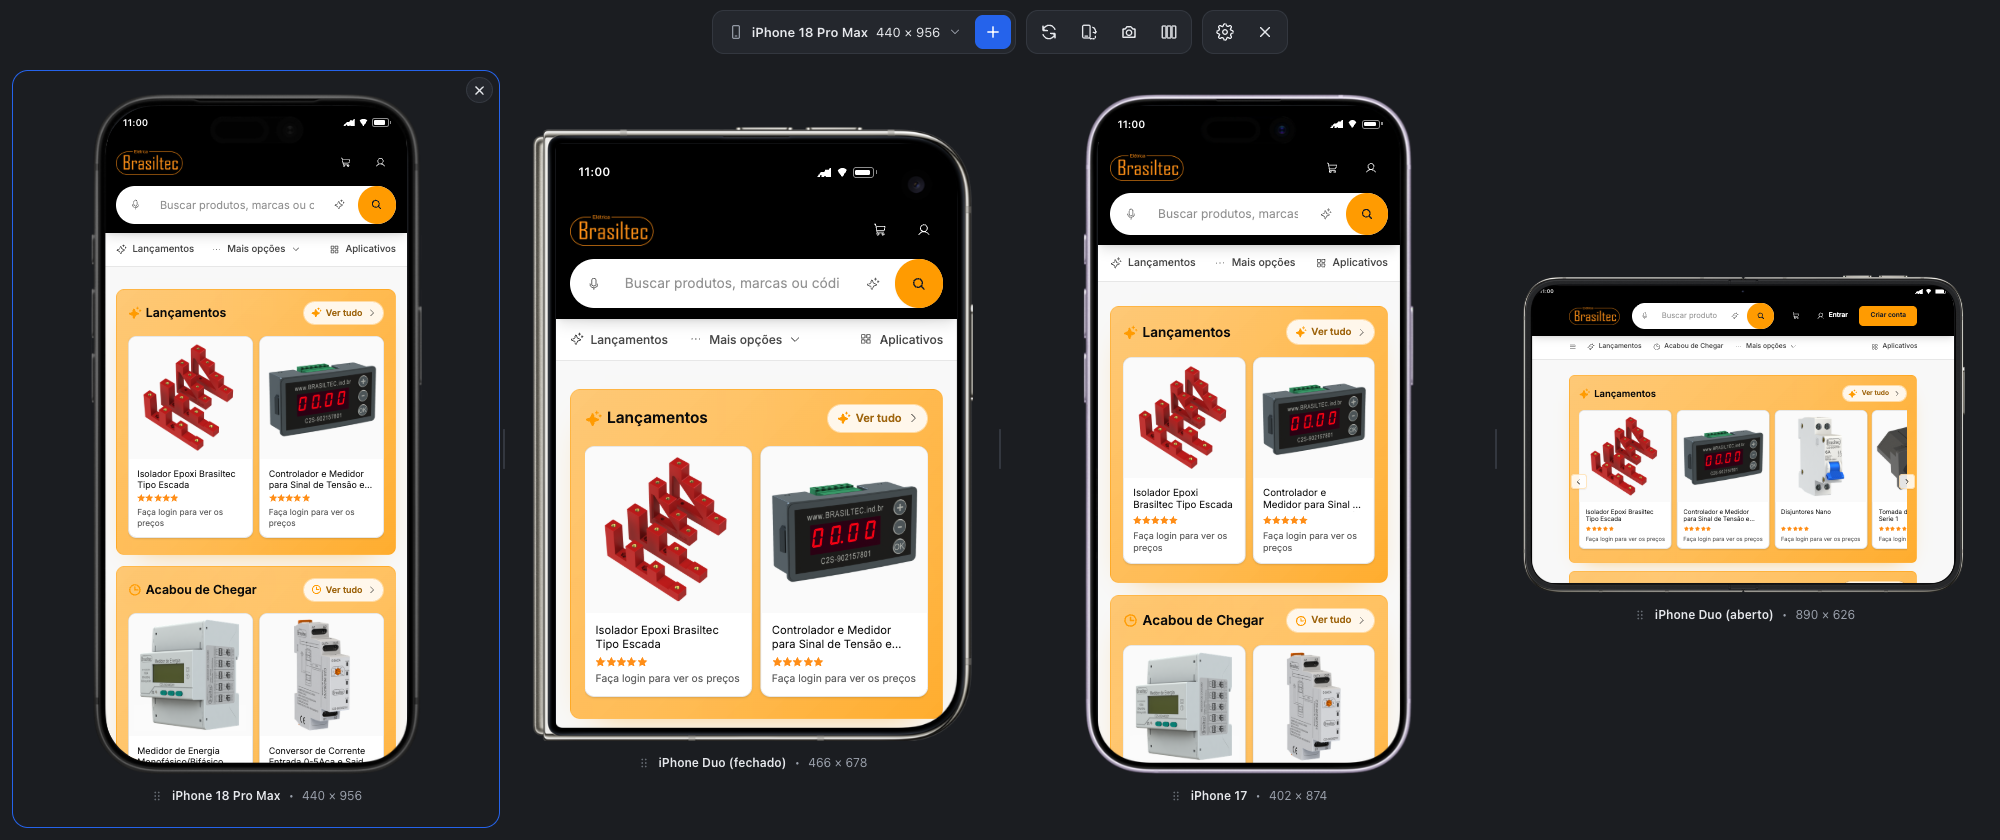
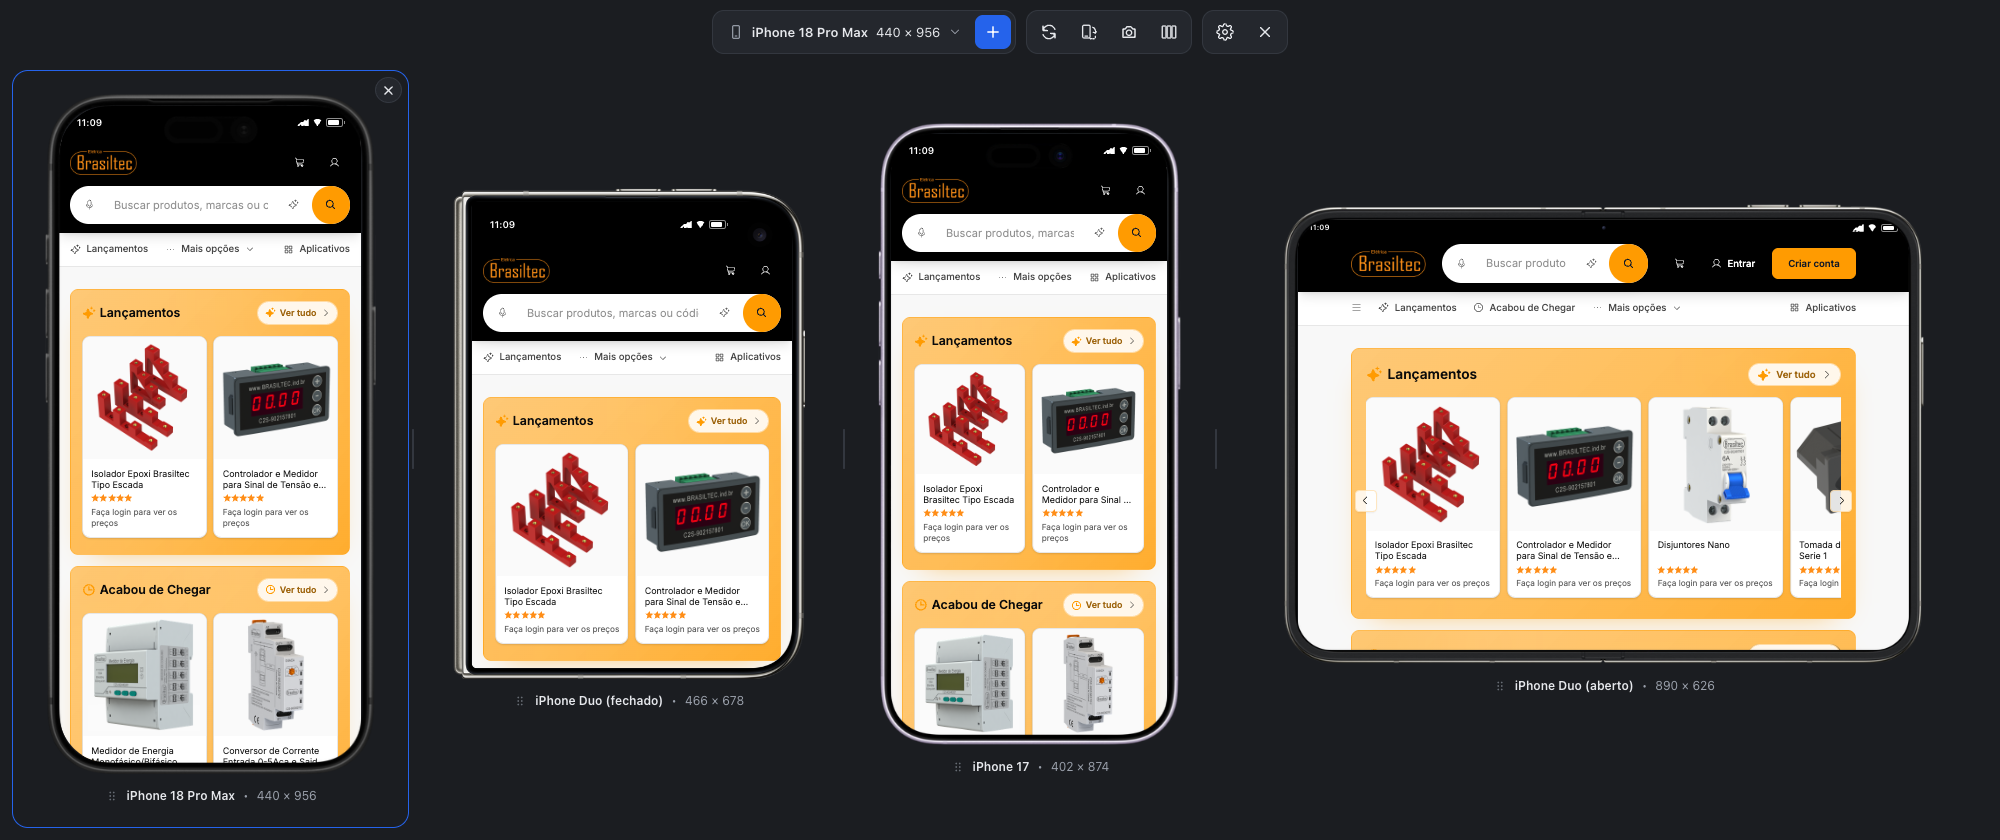
feat: add layout options for device arrangement and update README

diff --git a/js/content.js b/js/content.js
@@ -31,7 +31,7 @@
     customDevices: [],
     favorites: [],
     headerType: 'ios',
-    settings: { frameStyle: 'photo', realisticUI: true, syncScroll: true, theme: 'system', screenMode: 'browser', customUrl: '', customTime: '' },
+    settings: { frameStyle: 'photo', realisticUI: true, syncScroll: true, theme: 'system', screenMode: 'browser', customUrl: '', customTime: '', layout: 'equal' },
     url: location.href,
     selectedUid: null,
   };
@@ -126,13 +126,14 @@
     aa: '<svg viewBox="0 0 24 24"><path d="M3 18l4.5-12h1L13 18M5 14h5.5M14 18l3-8h.8l3 8M15.5 15.5h4"/></svg>',
     mic: '<svg viewBox="0 0 24 24"><rect x="9" y="3" width="6" height="11" rx="3"/><path d="M6 11a6 6 0 0 0 12 0M12 17v4"/></svg>',
     columns: '<svg viewBox="0 0 24 24"><rect x="3" y="4" width="5" height="16" rx="1.2"/><rect x="9.5" y="4" width="5" height="16" rx="1.2"/><rect x="16" y="4" width="5" height="16" rx="1.2"/></svg>',
+    proportional: '<svg viewBox="0 0 24 24"><rect x="3" y="7" width="4" height="13" rx="1.2"/><rect x="9" y="4" width="6" height="16" rx="1.2"/><rect x="17" y="9" width="4" height="11" rx="1.2"/></svg>',
     gear: '<svg viewBox="0 0 24 24"><circle cx="12" cy="12" r="3"/><path d="M19.4 15a1.7 1.7 0 0 0 .3 1.8l.1.1a2 2 0 1 1-2.8 2.8l-.1-.1a1.7 1.7 0 0 0-1.8-.3 1.7 1.7 0 0 0-1 1.5V21a2 2 0 1 1-4 0v-.1a1.7 1.7 0 0 0-1.1-1.5 1.7 1.7 0 0 0-1.8.3l-.1.1a2 2 0 1 1-2.8-2.8l.1-.1a1.7 1.7 0 0 0 .3-1.8 1.7 1.7 0 0 0-1.5-1H3a2 2 0 1 1 0-4h.1a1.7 1.7 0 0 0 1.5-1.1 1.7 1.7 0 0 0-.3-1.8l-.1-.1a2 2 0 1 1 2.8-2.8l.1.1a1.7 1.7 0 0 0 1.8.3H9a1.7 1.7 0 0 0 1-1.5V3a2 2 0 1 1 4 0v.1a1.7 1.7 0 0 0 1 1.5 1.7 1.7 0 0 0 1.8-.3l.1-.1a2 2 0 1 1 2.8 2.8l-.1.1a1.7 1.7 0 0 0-.3 1.8V9a1.7 1.7 0 0 0 1.5 1H21a2 2 0 1 1 0 4h-.1a1.7 1.7 0 0 0-1.5 1z"/></svg>',
     apple: '<svg viewBox="0 0 24 24"><path d="M16.4 12.6c0-2.4 2-3.5 2-3.6-1.1-1.6-2.8-1.8-3.4-1.8-1.4-.1-2.8.9-3.5.9s-1.8-.8-3-.8C7 7.3 5.6 8.2 4.8 9.6c-1.7 2.9-.4 7.3 1.2 9.7.8 1.2 1.8 2.5 3 2.4 1.2 0 1.7-.8 3.2-.8s1.9.8 3.2.8 2.1-1.2 2.9-2.4c.9-1.4 1.3-2.7 1.3-2.8 0 0-2.5-1-2.5-3.9zM14.1 5.7c.6-.8 1.1-1.9 1-3-.9 0-2.1.6-2.7 1.4-.6.7-1.1 1.8-1 2.9 1 .1 2.1-.5 2.7-1.3z" fill="currentColor" stroke="none"/></svg>',
   };
   const TYPE_ICON = { phone: ICON.phone, tablet: ICON.tablet, laptop: ICON.laptop };
 
   // ----------------------------------------------------------------- toolbar
-  let stage, modal, picker, addBtn, deviceBtn, settingsBtn, settings;
+  let stage, modal, picker, addBtn, deviceBtn, settingsBtn, settings, layoutBtn, layoutMenu;
 
   const selectedInstance = () => state.instances.find((i) => i.uid === state.selectedUid) || state.instances[0] || null;
 
@@ -163,7 +164,8 @@
       const card = inst && stage.querySelector(`.fx-card[data-uid="${inst.uid}"]`);
       if (card) screenshot(card, findDevice(inst.deviceId), card._screenW, card._screenH);
     }));
-    g2.appendChild(btn('fx-btn-equalize', t('equalize'), ICON.columns, equalizeColumns));
+    layoutBtn = btn('fx-btn-equalize', t('layout_menu'), ICON.columns, () => toggleLayoutMenu());
+    g2.appendChild(layoutBtn);
 
     const g3 = group();
     settingsBtn = btn('fx-btn-settings', t('settings'), ICON.gear, () => openSettings());
@@ -587,7 +589,10 @@
     const overhang = base && !photo ? LAPTOP_OVERHANG : 0;
     const outerW0 = photo ? (instance.landscape ? photo.h : photo.w) : screenW + 2 * (bezel + ring) + (instance.landscape ? chin : 0) + 2 * overhang;
     const outerH0 = photo ? (instance.landscape ? photo.w : photo.h) : screenH + 2 * (bezel + ring) + (instance.landscape ? 0 : chin) + base;
-    card._fit = () => {
+    card._outerW = outerW0;
+    card._outerH = outerH0;
+    card._maxScale = () => Math.min(1, (card.clientHeight - label.offsetHeight - 44) / outerH0, (card.clientWidth - 44) / outerW0);
+    card._fit = (forced) => {
       const avail = card.clientHeight - label.offsetHeight - 44;
       const availW = card.clientWidth - 44;
       const dpr = window.devicePixelRatio || 1;
@@ -596,7 +601,7 @@
       // page while it scrolls. Pick a scale that makes the screen width an
       // integer number of device pixels, then size every strip (ring, bezel,
       // status bar, browser bars, chin) so their scaled sizes are integers too.
-      let s = Math.min(1, avail / outerH0, availW / outerW0);
+      let s = forced ?? Math.min(1, avail / outerH0, availW / outerW0);
       s = Math.max(0.05, Math.floor(screenW * s * dpr) / (screenW * dpr));
       const snap = (v) => (v ? Math.round(v * s * dpr) / (s * dpr) : 0);
       const bz = snap(bezel), rg = snap(ring), st = snap(statusH), bt = snap(ui.top), bb = snap(ui.bottom);
@@ -684,6 +689,9 @@
         stage.appendChild(sp);
       }
     });
+    if (state.settings.layout === 'proportional') {
+      state.instances.forEach((i) => { const c = stage.querySelector(`.fx-card[data-uid="${i.uid}"]`); if (c?._outerW) i.weight = Math.round(c._outerW); });
+    }
     applyColumns();
     if (!state.instances.some((i) => i.uid === state.selectedUid)) state.selectedUid = state.instances[0].uid;
     selectInstance(state.selectedUid);
@@ -691,7 +699,15 @@
     tickClock();
   }
 
-  const fitAll = () => stage.querySelectorAll('.fx-card').forEach((c) => c._fit && c._fit());
+  const fitAll = () => {
+    const cards = [...stage.querySelectorAll('.fx-card')].filter((c) => c._fit);
+    if (state.settings.layout === 'proportional' && cards.length > 1) {
+      const shared = Math.min(...cards.map((c) => c._maxScale()));
+      cards.forEach((c) => c._fit(shared));
+    } else {
+      cards.forEach((c) => c._fit());
+    }
+  };
 
   function reloadFrames() {
     stage.querySelectorAll('.fx-iframe').forEach((f) => { f.src = state.url; });
@@ -752,10 +768,57 @@
   // ------------------------------------------------------ resizable columns
   // Each instance carries a `weight`; the grid template is rebuilt from the
   // instances in visual order, with an 8px splitter column between devices.
+  // ------------------------------------------------------------ layout menu
+  function toggleLayoutMenu() {
+    if (layoutMenu) return closeLayoutMenu();
+    closePicker(); closeSettings();
+    layoutMenu = el('div', 'fx-popover fx-menu');
+    layoutBtn.classList.add('fx-open');
+    const item = (key, label, icon, active) => {
+      const b = el('button', `fx-menu-item${active ? ' fx-active' : ''}`);
+      b.type = 'button';
+      b.innerHTML = `${icon}<span>${label}</span>`;
+      b.addEventListener('click', () => { closeLayoutMenu(); key === 'equal' ? equalizeColumns() : proportionalColumns(); });
+      layoutMenu.appendChild(b);
+    };
+    item('equal', t('layout_equal'), ICON.columns, state.settings.layout === 'equal');
+    item('proportional', t('layout_proportional'), ICON.proportional, state.settings.layout === 'proportional');
+    app.appendChild(layoutMenu);
+    placePopover(layoutMenu, layoutBtn, 300);
+    setTimeout(() => root.addEventListener('pointerdown', onOutsideLayoutMenu), 0);
+  }
+  function onOutsideLayoutMenu(e) {
+    if (!layoutMenu) return;
+    const path = e.composedPath();
+    if (path.includes(layoutMenu) || path.includes(layoutBtn)) return;
+    closeLayoutMenu();
+  }
+  function closeLayoutMenu() {
+    if (!layoutMenu) return;
+    layoutBtn.classList.remove('fx-open');
+    layoutMenu.remove();
+    layoutMenu = null;
+    root.removeEventListener('pointerdown', onOutsideLayoutMenu);
+  }
+
+  // every column the same width; each device scaled to fit its own column
   function equalizeColumns() {
+    state.settings.layout = 'equal';
     state.instances.forEach((i) => { i.weight = 1; });
     applyColumns();
-    saveInstances();
+    saveSettings(); saveInstances();
+    fitAll();
+  }
+  // columns proportional to each device's real size, and one shared scale for
+  // all of them, so a Pro Max really looks bigger than a mini
+  function proportionalColumns() {
+    state.settings.layout = 'proportional';
+    state.instances.forEach((i) => {
+      const card = stage.querySelector(`.fx-card[data-uid="${i.uid}"]`);
+      i.weight = card && card._outerW ? Math.round(card._outerW) : 1;
+    });
+    applyColumns();
+    saveSettings(); saveInstances();
     fitAll();
   }
 
@@ -774,6 +837,7 @@
     if (left + right < min * 2) return;
     stage.classList.add('fx-resizing');
     let raf = 0;
+    if (state.settings.layout === 'proportional') { state.settings.layout = 'manual'; saveSettings(); }
     const move = (ev) => {
       const nl = Math.min(Math.max(left + (ev.clientX - startX), min), left + right - min);
       px[idx] = nl;
@@ -965,7 +1029,7 @@
   function teardown() {
     clearInterval(clockTimer);
     clearInterval(navTimer);
-    closePicker(); closeSettings(); closeModal();
+    closePicker(); closeSettings(); closeModal(); closeLayoutMenu();
     window.removeEventListener('unhandledrejection', onInvalidated);
     window.removeEventListener('error', onInvalidated);
     window.removeEventListener('resize', fitAll);
@@ -998,7 +1062,7 @@
     navTimer = setInterval(pollNavigation, 400);
     window.addEventListener('resize', fitAll);
     new ResizeObserver(fitAll).observe(stage);
-    window.addEventListener('keydown', (e) => { if (e.key === 'Escape') { closeModal(); closePicker(); closeSettings(); } });
+    window.addEventListener('keydown', (e) => { if (e.key === 'Escape') { closeModal(); closePicker(); closeSettings(); closeLayoutMenu(); } });
     window.addEventListener('blur', () => setTimeout(() => {
       const active = root.activeElement;
       const card = active?.classList?.contains('fx-iframe') && active.closest('.fx-card');

diff --git a/css/content.css b/css/content.css
@@ -220,6 +220,14 @@
 .fx-photo-img { position: absolute; top: 0; left: 0; z-index: 2; background-size: 100% 100%; background-repeat: no-repeat; pointer-events: none; transform-origin: center; }
 .fx-photo .fx-side-btn, .fx-photo::before, .fx-photo::after { display: none; }
 
+/* ------------------------------------------------------------- small menu */
+.fx-menu { display: flex; flex-direction: column; gap: 2px; padding: 6px; }
+.fx-menu-item { display: flex; align-items: center; gap: 10px; height: 38px; padding: 0 12px; border: 0; border-radius: 10px; background: transparent; color: var(--text); font: inherit; font-weight: 500; text-align: left; cursor: pointer; }
+.fx-menu-item svg { width: 18px; height: 18px; fill: none; stroke: currentColor; stroke-width: 1.8; stroke-linecap: round; stroke-linejoin: round; color: var(--muted); }
+.fx-menu-item:hover { background: var(--bg-2); }
+.fx-menu-item.fx-active { background: var(--bg-2); box-shadow: inset 0 0 0 1px var(--accent); }
+.fx-menu-item.fx-active svg { color: var(--accent); }
+
 /* ------------------------------------------------------------------ modal */
 .fx-modal-backdrop { position: absolute; inset: 0; z-index: 30; background: rgba(0,0,0,.55); display: flex; align-items: center; justify-content: center; }
 .fx-modal { width: 400px; max-width: 92vw; background: var(--bg-2); border: 1px solid var(--line); border-radius: 14px; padding: 20px; box-shadow: 0 20px 60px rgba(0,0,0,.5); }

diff --git a/readme.md b/readme.md
@@ -31,7 +31,7 @@ As molduras são reduzidas com `zoom` (não `transform: scale`) e todas as borda
 - Dispositivos personalizados (nome, largura, altura, tipo, estilo), salvos em `chrome.storage.local`
 - Vários dispositivos ao mesmo tempo, cada um ocupando uma fração igual da tela (1/n), centralizado e escalado para caber
 - Arrastar e soltar (pela moldura ou pelo rótulo) para reordenar os dispositivos
-- Divisores entre os dispositivos para redimensionar a área de cada um; botão na barra (ou duplo clique no divisor) iguala as larguras
+- Divisores entre os dispositivos para redimensionar a área de cada um; botão "Reorganizar dispositivos" na barra com duas opções: tamanhos iguais, ou proporcional ao tamanho real (mesma escala para todos, colunas na proporção de cada aparelho)
 - Dispositivo selecionado com borda azul; girar, captura e troca de modelo agem sobre ele
 - Navegação sincronizada: ao trocar de página em um dispositivo, os outros acompanham (frames da mesma origem da aba)
 - Rolagem sincronizada por proporção, com opção para desligar
